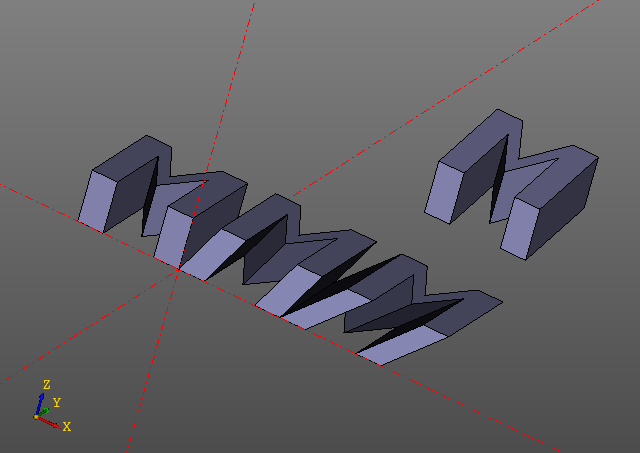
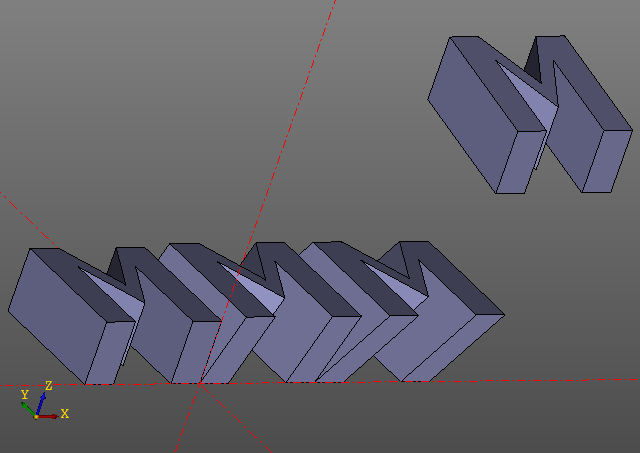
a
Former-commit-id: 5db82326e8054c8cf0d376c01fa592b336dbe486

diff --git a/docs/_site/texts/cache.html b/docs/_site/texts/cache.html
@@ -111,7 +111,17 @@
 			
 			<article>
 				<link rel="stylesheet" href="/zencad/css/main.css">
-				<h1 id="section">2д примитивы.</h1>
+				<h1 id="section">Кэширование</h1>
+
+<p>Вычислительные операции над 3д моделями могут потреблять довольно много вычислительных ресурсов.
+С целью уменьшения времени, проходящего между запуском скрипта и отображением результата, zencad может кэшировать результаты вычислений.</p>
+
+<p>Для активации кэша:</p>
+
+<figure class="highlight"><pre><code class="language-sh" data-lang="sh">zencad.enable_cache<span class="o">(</span>cache_directory <span class="o">=</span> <span class="s2">".zencache"</span><span class="o">)</span></code></pre></figure>
+
+<p>Пример:
+TODO</p>
 
 			</article>
 			

diff --git a/docs/_layouts/default.html b/docs/_layouts/default.html
@@ -97,7 +97,16 @@
           		<a href="{{ "/texts/trajops.html" | prepend: site.baseurl }}">Траекторные операции</a></p>
           		
           		Операции сглаживания<p>
-          		Кэширование<p>
+          		<a href="{{ "/texts/cache.html" | prepend: site.baseurl }}">Кэширование</a></p>
+          		Экспорт/импорт
+
+          		Библиотеки:<p>
+          		Резьбовые соединения<p>
+          		Шестерни<p>
+
+          		Примеры:<p>
+          		Хранилище для деталей.<p>
+
 			</nav>
 			
 			<article>

diff --git a/docs/_site/index.html b/docs/_site/index.html
@@ -97,7 +97,16 @@
           		<a href="/zencad/texts/trajops.html">Траекторные операции</a></p>
           		
           		Операции сглаживания<p>
-          		Кэширование<p>
+          		<a href="/zencad/texts/cache.html">Кэширование</a></p>
+          		Экспорт/импорт
+
+          		Библиотеки:<p>
+          		Резьбовые соединения<p>
+          		Шестерни<p>
+
+          		Примеры:<p>
+          		Хранилище для деталей.<p>
+
 			</nav>
 			
 			<article>

diff --git a/docs/_site/texts/base.html b/docs/_site/texts/base.html
@@ -97,7 +97,16 @@
           		<a href="/zencad/texts/trajops.html">Траекторные операции</a></p>
           		
           		Операции сглаживания<p>
-          		Кэширование<p>
+          		<a href="/zencad/texts/cache.html">Кэширование</a></p>
+          		Экспорт/импорт
+
+          		Библиотеки:<p>
+          		Резьбовые соединения<p>
+          		Шестерни<p>
+
+          		Примеры:<p>
+          		Хранилище для деталей.<p>
+
 			</nav>
 			
 			<article>

diff --git a/docs/_site/texts/prim3d.html b/docs/_site/texts/prim3d.html
@@ -97,7 +97,16 @@
           		<a href="/zencad/texts/trajops.html">Траекторные операции</a></p>
           		
           		Операции сглаживания<p>
-          		Кэширование<p>
+          		<a href="/zencad/texts/cache.html">Кэширование</a></p>
+          		Экспорт/импорт
+
+          		Библиотеки:<p>
+          		Резьбовые соединения<p>
+          		Шестерни<p>
+
+          		Примеры:<p>
+          		Хранилище для деталей.<p>
+
 			</nav>
 			
 			<article>

diff --git a/docs/_site/texts/solid_prim.html b/docs/_site/texts/solid_prim.html
@@ -97,7 +97,16 @@
           		<a href="/zencad/texts/trajops.html">Траекторные операции</a></p>
           		
           		Операции сглаживания<p>
-          		Кэширование<p>
+          		<a href="/zencad/texts/cache.html">Кэширование</a></p>
+          		Экспорт/импорт
+
+          		Библиотеки:<p>
+          		Резьбовые соединения<p>
+          		Шестерни<p>
+
+          		Примеры:<p>
+          		Хранилище для деталей.<p>
+
 			</nav>
 			
 			<article>

diff --git a/docs/_site/texts/trajops.html b/docs/_site/texts/trajops.html
@@ -97,7 +97,16 @@
           		<a href="/zencad/texts/trajops.html">Траекторные операции</a></p>
           		
           		Операции сглаживания<p>
-          		Кэширование<p>
+          		<a href="/zencad/texts/cache.html">Кэширование</a></p>
+          		Экспорт/импорт
+
+          		Библиотеки:<p>
+          		Резьбовые соединения<p>
+          		Шестерни<p>
+
+          		Примеры:<p>
+          		Хранилище для деталей.<p>
+
 			</nav>
 			
 			<article>

diff --git a/make.py b/make.py
@@ -92,7 +92,7 @@ registry_library("python3.5")
 registry_library("python3.6")
 
 def do_wheel(suffix):
-	os.system("python{} setup.py bdist_wheel".format(suffx))
+	os.system("python{} setup.py bdist_wheel".format(suffix))
 
 def install_egg(suffix):
 	os.system("sudo python{} setup.py install".format(suffix))	
@@ -101,7 +101,6 @@ def install_egg(suffix):
 def local35():
 	licant.make.copy(tgt = "zencad/zenlib.so", src = "zencad/python3.5/zenlib.so")
 	licant.do("zencad/zenlib.so", "makefile")
-	do_wheel("3.5")
 
 @licant.routine
 def install35():
@@ -113,7 +112,6 @@ def install35():
 def local36():
 	licant.make.copy(tgt = "zencad/zenlib.so", src = "zencad/python3.6/zenlib.so")
 	licant.do("zencad/zenlib.so", "makefile")
-	do_wheel("3.6")
 
 @licant.routine
 def install36():
@@ -125,7 +123,6 @@ def install36():
 def local27():
 	licant.make.copy(tgt = "zencad/zenlib.so", src = "zencad/python2.7/zenlib.so")
 	licant.do("zencad/zenlib.so", "makefile")
-	do_wheel("2.7")
 
 @licant.routine
 def install27():

diff --git a/src/zencad/base.cpp b/src/zencad/base.cpp
@@ -12,13 +12,16 @@
 
 
 bool ZenCadObject::check_cache() {
+	gxx::println("check_cache", class_name());
 	if (checked_cache) return true;
 
+	//gxx::println(class_name());
 	assert(checked_cache == false && minor == 0);
 	assert(setted_hash);
 
 	hashstr = gxx::base64url_encode((const uint8_t*)&hash, sizeof(hash));
 
+	checked_cache = true;
 	while(true) {
 		std::string filepath = gxx::format(minor ? "{}/{}_{}.dump" : "{}/{}.dump", zencache_path(), hashstr, minor);
 
@@ -28,6 +31,7 @@ bool ZenCadObject::check_cache() {
 			return false;
 		} else {
 			std::ifstream file(filepath, std::ios::binary);
+			gxx::println("info_check for", class_name());
 			cached = info_check(file) && vreflect_check_cache();
 			file.close();
 			if (cached) return true;		
@@ -38,6 +42,7 @@ bool ZenCadObject::check_cache() {
 }
 
 void ZenCadObject::prepare() {
+	gxx::fprintln("prepare {}", class_name());
 	if (prepared) return;
 
 	if (!setted_hash) {

diff --git a/examples/storage/storage.py b/examples/storage/storage.py
@@ -1,0 +1,39 @@
+#!/usr/bin/env python3.5
+#coding: utf-8
+
+import sys
+sys.path.insert(0, "../..")
+
+from zencad import *
+
+enable_cache(".cache")
+
+def section(w, h, l, t, d, d2):
+	return (
+		  box(2*t+w, t+l, 2*t+h)
+		- box(w, l, h).translate(t,0,t)
+		- box(w-2*d,l,h+2*t).translate(t+d,0,0)
+		- box(w,l+t,h-d2).translate(t,0,d2+t)
+	)
+
+#n, m - параметры матрицы.
+#w,h,l - параметры нишы.
+#t - толщина стенок.
+#d - выступ поддержки.
+#d2 - высота заднего бампера.
+def storage(m, n, w, h, l, t, d, d2):
+	arr = []
+	sect = section(w,h,l,t,d,d2)
+	b1 = box(w*m+t*(m+1), l+t, t)
+	b2 = box(w*m + t*(m+1),l+t,t)
+	for i in range(0, n):
+		for j in range(0, m):
+			arr.append(sect.translate(j*(w+t),0,i*(h+t))) 
+		arr.append(b2.translate(0,0,h*n+t*n))
+	arr.append(b1)
+	return union(arr)
+
+m = storage(3,3,27,20,64,1.5,5,5)
+
+display(m)
+show()

diff --git a/examples/storage/case.py b/examples/storage/case.py
@@ -1,0 +1,23 @@
+#!/usr/bin/env python3.5
+#coding: utf-8
+
+from zencad import *
+
+def case(w,h,l,t,r,z,s):
+	w = w*s;
+	h = h*0.95;
+	
+	return (
+		  box(w,l,h)
+		- box(w-2*t, l-2*t,h-t).translate(t,t,t)
+		- cylinder(r=r,h=t+1).rotateX(gr(90)).translate(w/2,t+0.5,h)
+
+		+ box(w-2*t, z*2, h-r).translate(t,-z*2,0)
+		- box(w-2*t-2*z, z, h-r-z).translate(t+z,-z,z)
+		- box(w-2*t-6*z, z, h-r-2*z).translate(t+z*3,-2*z,2*z)
+	)
+
+m = case(w=27,h=20,l=64,t=1.5,r=27/2-4,z=1,s=0.965);
+
+display(m)
+show()

diff --git a/zencad/boolops.py b/zencad/boolops.py
@@ -1,1 +1,21 @@
-from zencad.zenlib import boolops_union as union
+#from zencad.zenlib import boolops_union as union
+#from zencad.zenlib import boolops_difference as difference
+#from zencad.zenlib import boolops_intersect as intersect#
+
+def union(arr):
+	m = arr[0]
+	for a in arr[1:]:
+		m = m + a
+	return m
+
+def difference(arr):
+	m = arr[0]
+	for a in arr[1:]:
+		m = m - a
+	return m
+
+def intersect(arr):
+	m = arr[0]
+	for a in arr[1:]:
+		m = m ^ a
+	return m
